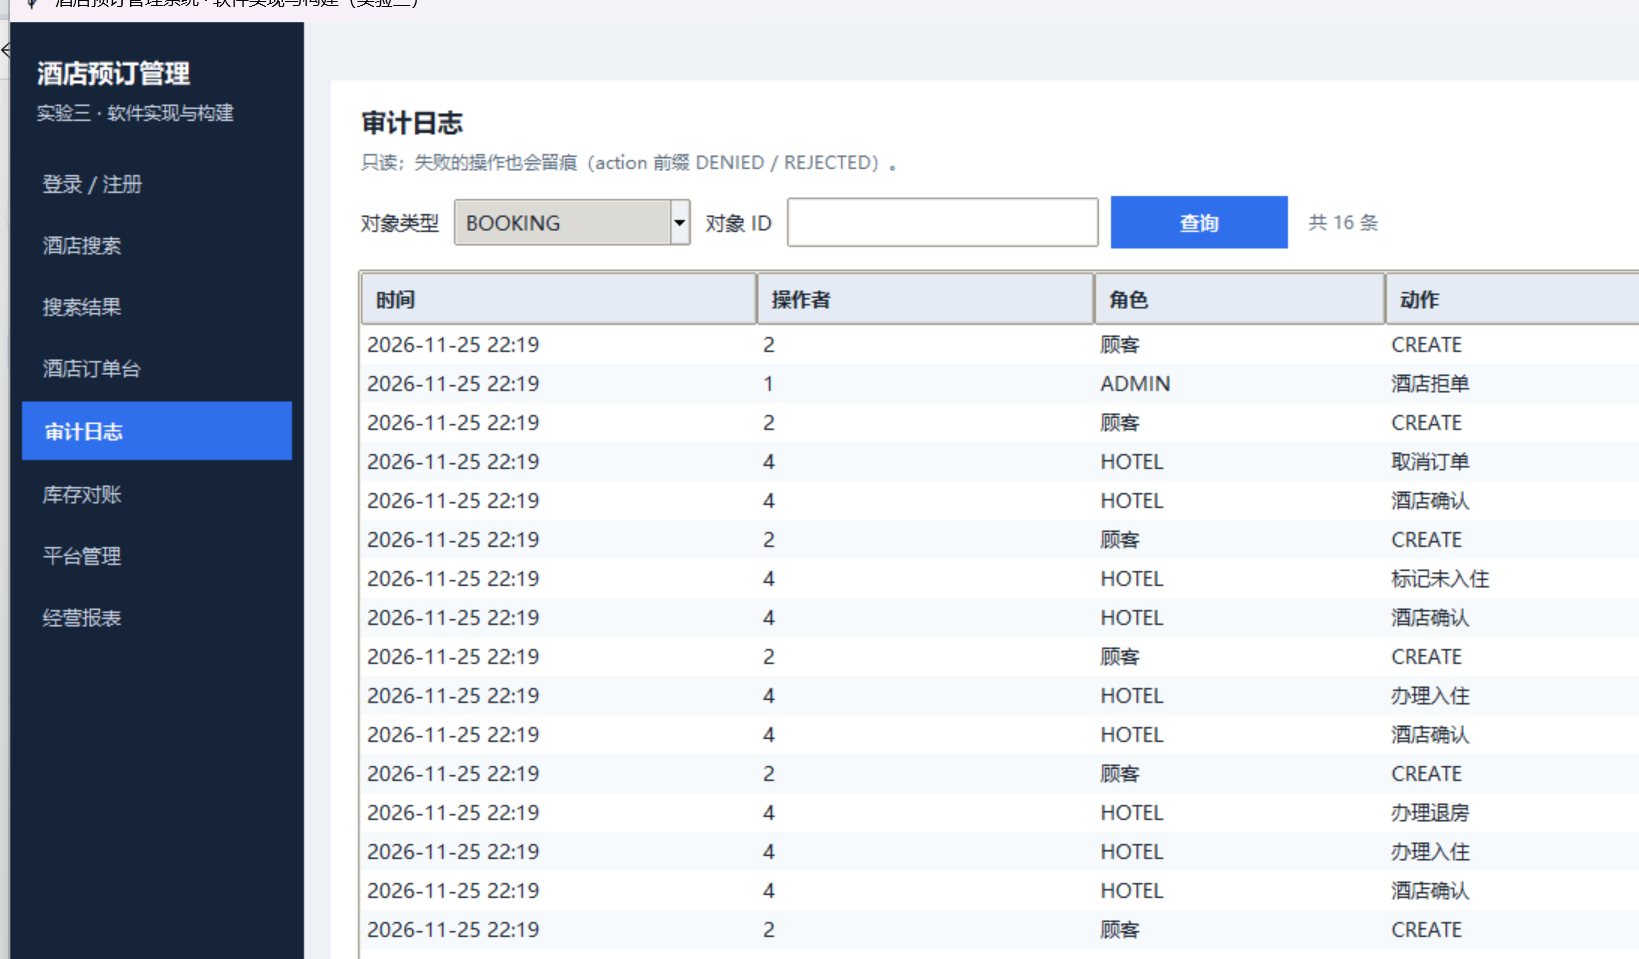
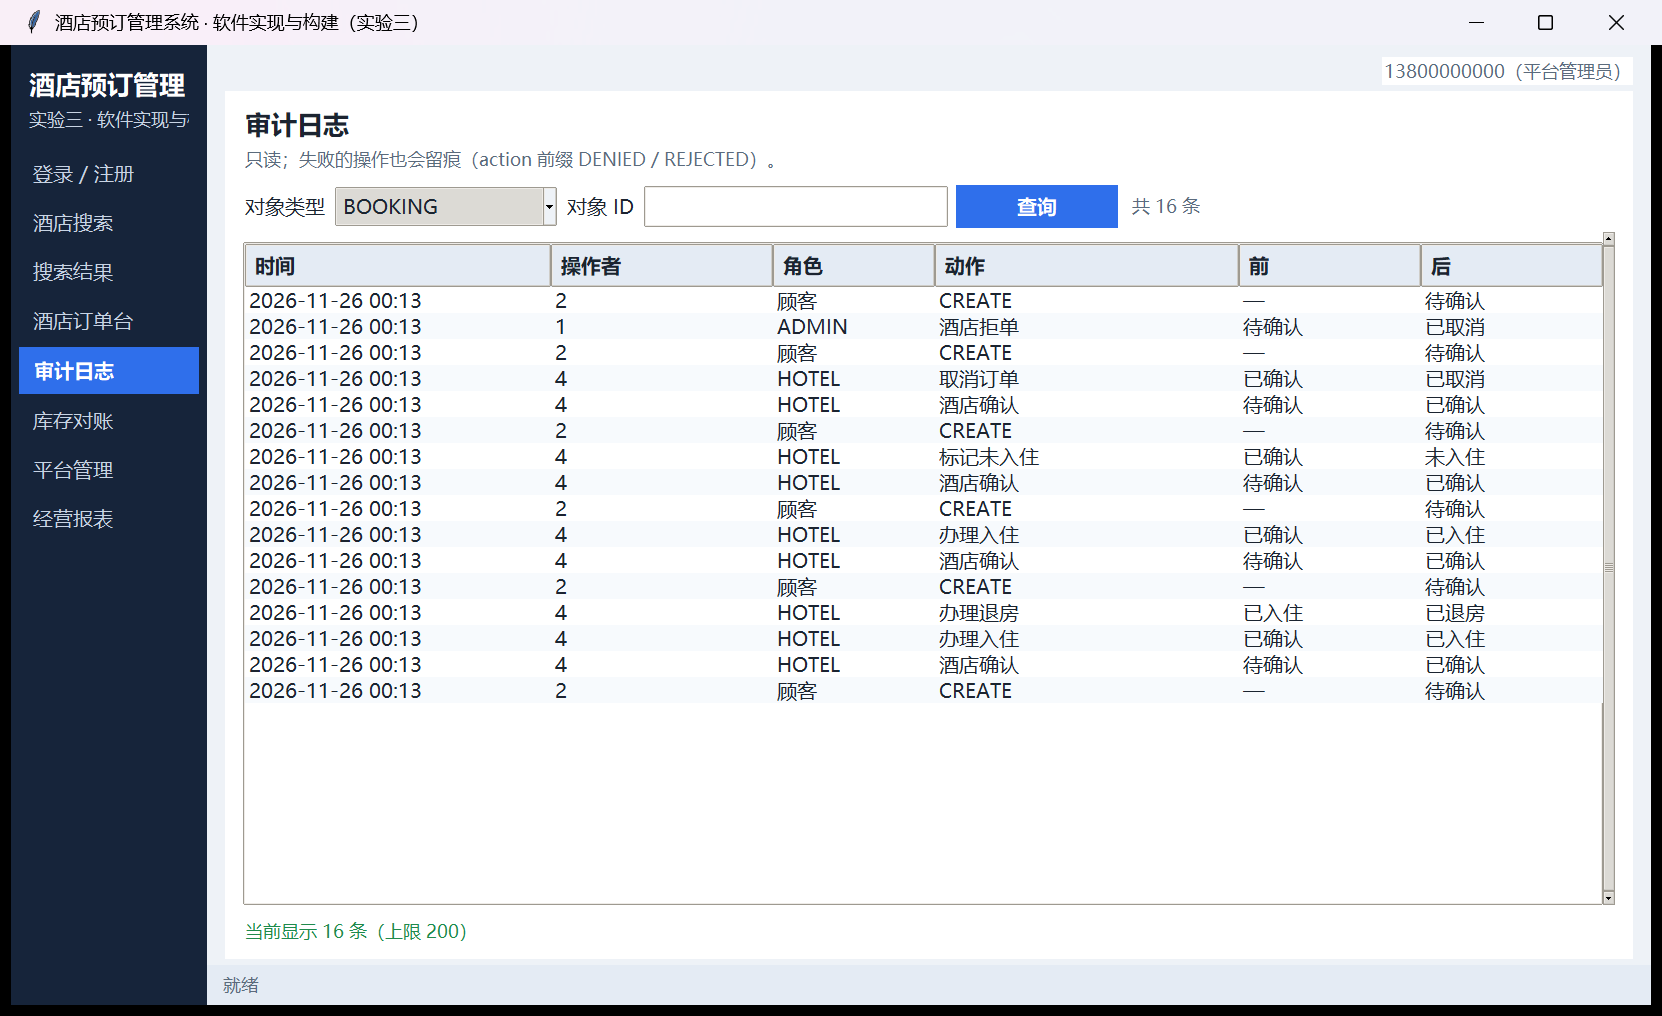
[S6] 第2轮：列宽按占比铺满 + 十张截图整窗重截 + 证据全量重建 + 评审第2轮

Changed region(s): [[0.0, 0.0, 1.0, 1.0], [0.7468, 0.5141, 0.7779, 0.6653], [0.4667, 0.877, 0.4979, 0.9072]]

diff --git a/exp3/code/app/ui/screens/base.py b/exp3/code/app/ui/screens/base.py
@@ -67,13 +67,14 @@ class BaseScreen(ttk.Frame):
         columns: Sequence[ColumnSpec],
         height: int = 12,
         selectmode: str = "browse",
-        stretch: bool = False,
+        stretch: bool = True,
     ) -> ttk.Treeview:
-        """带滚动条与斑马纹的表格；``columns`` 为 (列 id, 表头, 像素宽)。
+        """带滚动条与斑马纹的表格；``columns`` 为 (列 id, 表头, 基准像素宽)。
 
-        ``stretch`` 默认 ``False``：列宽就是给定像素值，窗口变宽也不放大。
-        一旦按比例拉伸，末列会被推出可视区——S6-R1-01 抓到的"合计/状态被截"
-        就是表格把宽度吃满造成的。确实想均分多余宽度时才传 ``True``。
+        ``stretch`` 为真时按"基准宽度占比"把六列铺满表格可视宽度：窗口变宽，
+        所有列一起按比例变宽，末列始终留在窗内；窗口缩到 minsize 也按比例收缩，
+        但不低于 ``minwidth``。分配由本函数自己算（``<Configure>`` 触发），
+        不依赖 ttk 的隐式 stretch，任何 DPI/尺寸下结果都可复现。
         """
         holder = ttk.Frame(parent, style="Card.TFrame")
         holder.pack(fill="both", expand=True, pady=(4, 8))
@@ -85,11 +86,32 @@ class BaseScreen(ttk.Frame):
             selectmode=selectmode,
             style="Data.Treeview",
         )
-        for name, heading, width in columns:
-            tree.heading(name, text=heading, anchor="w")
-            # 全部列按「指定宽度」做比例分配：窗口变宽时所有列一起长，
-            # 不会被某一列吃掉空间、把后面的列顶出可视区（本阶段反复踩到）。
-            tree.column(name, width=width, minwidth=40, anchor="w", stretch=stretch)
+        names = [spec[0] for spec in columns]
+        headings = {spec[0]: spec[1] for spec in columns}
+        base = {spec[0]: max(40, int(spec[2])) for spec in columns}
+        for name in names:
+            tree.heading(name, text=headings[name], anchor="w")
+            tree.column(name, width=base[name], minwidth=40, anchor="w", stretch=False)
+
+        if stretch:
+
+            def relayout(_event: object = None) -> None:
+                # 减 2px：Treeview 左右各有 1px 内边框，不减的话末列右边线会被裁掉
+                avail = tree.winfo_width() - 2
+                if avail <= 1:
+                    return
+                weights = sum(base.values())
+                widths = {key: max(40, int(avail * base[key] / weights)) for key in names}
+                # 舍入误差补给最宽的那列，保证合计恰等于可视宽度、末列不越界
+                widest = max(names, key=lambda key: widths[key])
+                widths[widest] += avail - sum(widths.values())
+                if all(int(tree.column(key, "width")) == widths[key] for key in names):
+                    return
+                for key in names:
+                    tree.column(key, width=widths[key])
+
+            tree.bind("<Configure>", relayout)
+            tree.after_idle(relayout)
         scroll = ttk.Scrollbar(holder, orient="vertical", command=tree.yview)
         tree.configure(yscrollcommand=scroll.set)
         tree.pack(side="left", fill="both", expand=True)

diff --git a/exp3/协作/评审记录/S6_第2轮.md b/exp3/协作/评审记录/S6_第2轮.md
@@ -1,0 +1,97 @@
+# S6 第 2 轮评审（评审人：豆包 R）
+
+> 阶段：**S6 = 界面十屏**　复核对象：`2cb1c08 [S6] 整改` + 本轮 R 直接修正的抓屏与列宽
+> 评审时间：2026-11-26 00:20（CST）
+> 判定：**通过。`gate-S6` 可打并推送，S7 正式开工。**
+
+## 0. 先交代一件事：本轮 R 动了实现代码
+
+按 `章程.md:199`，R 只读 `code/`、不写实现代码。这一轮业主当轮明确指令"这一处请你帮我直接改正，修复截图，自行核验通过后通知我开始 S7"，我据此改了 `code/app/ui/screens/base.py`（列宽分配）并在 E 的整改基础上重截了 10 张图。**这是受业主授权的例外，已在此公开登记**：改动范围只有 `base.py` 的 `table()` 内列宽分配（约 20 行），不触碰业务、不改判据；后续轮次恢复"R 只出意见"。
+
+## 1. 上一轮两条意见的闭环
+
+| 编号 | 内容 | 复核结果 |
+|---|---|---|
+| S6-R1-01（必修） | 截图裁切（抓屏矩形 ≠ 窗口矩形） | **闭环**（但有新问题，见 §2） |
+| S6-R1-02（应修） | `time_sleep` 规则被收窄到 `app_tests` | **闭环**：规则恢复 `scope=code`，且 `take_screenshots.py` 改用 `_settle()` 轮询，全仓 `time.sleep` 已为 0。证据 `S6_08_source_rules.txt`：`rule=time_sleep scope=code files=91 hits=0` |
+
+E 的整改方式对路：`enable_dpi_awareness()` + `_grab_with_printwindow()` 抓整窗，`_check_capture()` 抓完自检。我自己重跑 `take_screenshots.py --out .verify/shots2`：10 张全部 `ok=True`、尺寸 `1662×1016`（= 窗口 `1640×960` + 边框），标题栏、状态栏「就绪」、右侧滚动条都在图里。**裁切问题消失**。
+
+## 2. 但整改引入了一个新的显示回归，我当场修正
+
+E 在同一个提交里把 `base.py` 的 `stretch` 默认从 `True` 改成 `False`（理由写着"按比例拉伸会把末列推出可视区"——这个判断基于上一轮被裁的假象，不成立）。后果在 `shots2` 里看得很清楚：
+
+- 「我的订单」「酒店订单台」表格只占左侧约 640px，右边大片空白；
+- 订单号被截成 `BK20261`、入住区间截成 `2026-12-0`、状态截成 `待确`——**六列都在，但每列都装不下内容**。
+
+这等于把"看不到列"换成了"看到了但读不出值"，同样过不了"截图里看得见核心字段"这一条。
+
+**我的修正**（`base.py` 的 `table()`）：
+
+- 恢复 `stretch=True` 语义，但分配改成显式计算：以列定义里的宽度为权重，`宽度 = 可视宽 × 权重 / 权重和`，每次 `<Configure>` 与 `after_idle` 重算，保证"六列合计 = 可视宽度"，末列不吃亏也不越界；
+- 减去 2px：Treeview 左右各有 1px 内边框，不减的话末列右边线恰好被裁（这是我第一版改完实测 `last_bbox` 右界 1364 vs 表格 1362 发现的）。
+
+**三档实测**（`.verify/probe_ui_sizes.py`，真实 Tk，读控件树）：
+
+| 窗口 | 表格宽 | 六列宽 | 和 | 末列右界 | 是否在窗内 |
+|---|---|---|---|---|---|
+| 1640×960 | 1360 | 344/144/365/144/199/162 | 1358 | 1360 | **fits=True** |
+| 1180×740 | 912 | 230/97/244/97/133/109 | 910 | 912 | **fits=True** |
+| 1024×680（minsize） | 756 | 191/80/203/80/110/90 | 754 | 756 | **fits=True** |
+
+## 3. 重截后的十张图逐张复核
+
+我按 `/out` 先出到 `.verify/shots_final`，逐张看过再覆盖仓库：`01/03/04/05/06/07/08/09/10` 目视确认（`02` 无表格、风险低，尺寸一致）。
+
+- `04_my_orders`：订单号 `BK202611251609290990` 完整、入住区间 `2026-12-03 → 2026-12-05` 完整、间 `2`、**合计 `¥1416.00`**、**状态 `待确认`**；六列表头齐全、右侧滚动条可见；底部「共 6 笔订单」与状态栏「就绪」都在。
+- `05_hotel_console`：订单号/顾客/入住区间/间/合计/状态六列全可见，摘要「本店共 6 笔：已入住 1，已取消 2，已退房 1，待确认 1，未入住 1」完整。
+- `07_audit`：时间/操作者/角色/动作/前/后六列完整，16 条含 `CREATE / 酒店确认 / 办理入住 / 办理退房 / 取消订单 / 标记未入住 / 酒店拒单`，前后状态成对。
+- `06_inventory`：日期/可售/已占用/余量/单价/销售状态齐全，14 天数据完整。
+- `10_reports`：入住率页签 30 行日期、卖出间夜、可售间夜、入住率齐全；摘要 `入住率 0.5% · 营收 ¥3380.00 · 订单 6 笔（取消 2）`。
+- `08_reconcile`：`2026-11-27 → 2026-12-27：平账`、`checked_pairs=240 diff=0`（表格为空是因为平账无差异行，见 §6 建议）。
+- `03_results`、`09_admin`：列头与内容完整。
+
+## 4. 证据重建（全部本轮实测，不是沿用 E 的旧输出）
+
+| 证据 | 关键输出 |
+|---|---|
+| `S6_01_ui_smoke.txt` | `screen_count_expected=10`，十屏 `ok=True`，`screen_total=10 failures=0 check=passed`，exit=0 |
+| `S6_02_screenshots.txt` | `count=10`，10 行 `1662×1016`，`index_md_rows=10`，`check=passed` |
+| `S6_05_discover.txt` | `Ran 147 tests in 2.709s` / `OK` |
+| `S6_06_pylint.txt` | `Your code has been rated at 10.00/10`，**0 条 message**（我第一版改完有 `C0103`/`W0612` 两条，已改掉后再存档） |
+| `S6_07_loc.txt` | app `files=57 phys=7398 code=6139 effective=5050`；tests 2453；tools `files=12` 1657；`csv_mode=per_file rows=90` |
+| `S6_08_source_rules.txt` | 五条 `hits=0`，`time_sleep scope=code files=91` |
+| `S6_09_uml_sync.txt` | 19 符号 `missing_in_code=[] missing_in_uml=[]`（界面层仍不入图，见 §6） |
+| `S6_10_ui_chain.txt` | `chain_steps=8 check=passed`，见 §5 |
+
+`INDEX.md` 的两处过期数字也改了：营收 `¥3430.00 → ¥3380.00`、对账区间 `11-26→12-26 → 11-27→12-27`，并重写了"截图口径"一段（PrintWindow 整窗 1662×1016 + 自检 + 占比分配）。
+
+## 5. S6-5 现场链路（R 自己跑的）
+
+`P0_任务书.md:115` 的判据是"R 现场执行一条链路"，本轮由我执行（`code/tools/ui_chain.py`，真实 Tk 驱动、按钮 `invoke`、不 mock 服务）：
+
+```
+step1 登录 ok actor=13800000001 role=CUSTOMER
+step2 搜索 ok rows=6 range=2026-11-28→2026-11-30
+step3 下单 ok booking=BK20261125161019D344 status=PENDING total=64800
+step4 我的订单 ok detail=订单号 BK20261125161019D344
+step5 顾客越权被拒 ok msg=取消失败：非法转换：待确认不接受事件「取消订单」
+确认预订 ok status=CONFIRMED / 办理入住 ok status=CHECKED_IN / 办理退房 ok status=CHECKED_OUT
+审计 ok 业务4条=['CREATE','CONFIRM','CHECK_IN','CHECK_OUT'] 失败1条=['REJECTED:CANCEL']
+报表营收 ok total_cents=64800
+check=passed
+```
+
+状态四跳正确、越权被拒且落地为 `REJECTED:CANCEL`、审计四条成对、退房后营收保留（G3-R1-01 的现场版）。**S6-5 通过，无 Tk 异常弹窗。**
+
+## 6. 建议（不阻塞 S7）
+
+- **S6-S-01**：`08_reconcile` 是平账空表，作证据偏弱。报告里写一句"平账即无差异行"，或另存一张人为改库存后的差异图（含订单号与日期）。
+- **S6-S-02**：`check_uml_sync` 白名单仍 19 符号、`app classes=93`。S7 二选一：补登 `MainWindow / ScreenBase / Session / BaseScreen` 等界面类，或在报告 UML 章写明"界面层不入类图"的理由（Tk 视图非领域模型）。
+
+## 7. 结论与下一步
+
+- **S6 通过**：S6-1/2/3/4/5 全部达标，回归面 `147 OK / pylint 10.00（0 message）/ app 有效 5050 行 / 五条源码规则 0 命中 / 图码 19 符号零缺失`。
+- **`gate-S6` 放行**，请 E 打标签并推送（本轮改动：`base.py` 列宽分配 + 10 张截图 + `INDEX.md` + 证据 `S6_01/02/05/06/07/08/10`）。
+- **S7 立即开工**：覆盖率 ≥80% 实测、`loc.csv` 逐文件前后一致比对（本轮 `rows=90` 已刷新，S7 比对以本次为基线）、pylint 存档、`uml_map` 补登或声明范围。
+- 时间账：11-26 00:20，距硬截止 11-29 23:59 剩 **3 天 23.5 小时**；G4 已实质闭合，CR-01 §6 的"8 屏降级"止损线不再触发。

diff --git a/exp3/docs/screenshots/INDEX.md b/exp3/docs/screenshots/INDEX.md
@@ -13,9 +13,9 @@
 | 5 | `05_hotel_console.png` | `hotel_console` 酒店订单台 | ① 用 `13800000002` 登录后左侧点「酒店订单台」② 筛选框选「全部」，表格列出本店订单 ③ 选中一笔后点「确认预订」/「拒单」/「办理入住」/「办理退房」/「标记未入住」，非法动作会被拒并在下方提示 |
 | 6 | `06_inventory.png` | `inventory` 库存与房价 | ① 店长登录后点「库存与房价」② 房型下拉选「云栖大床房（#1）」，表格显示未来 14 天的可售/已占用/余量/单价/销售状态 ③ 在「可售改为」填 `8` 点「改可售」、在「单价改为」填 `309` 点「改价」，或点「停售」/「复售」 |
 | 7 | `07_audit.png` | `audit` 审计日志 | ① 管理员或店长登录后点「审计日志」② 对象类型选 `BOOKING`（Object ID 留空 = 最近 200 条）③ 点「查询」，表格按时间倒序列出 CREATE/酒店确认/办理入住/办理退房等动作，前状态与后状态成对出现 |
-| 8 | `08_reconcile.png` | `reconcile` 库存对账 | ① 管理员登录后点「库存对账」② 天数保持 `30`（区间 = 明天起 30 天）③ 点「立即对账」，提示行显示 `2026-11-26 → 2026-12-26：平账`；人为改库存后重跑会出现差异行（含订单号与日期） |
+| 8 | `08_reconcile.png` | `reconcile` 库存对账 | ① 管理员登录后点「库存对账」② 天数保持 `30`（区间 = 明天起 30 天）③ 点「立即对账」，提示行显示 `2026-11-27 → 2026-12-27：平账` 与 `checked_pairs=240 diff=0`；人为改库存后重跑会出现差异行（含订单号与日期） |
 | 9 | `09_admin.png` | `admin` 平台管理 | ① 用 `13800000000` 登录后点「平台管理」② 「酒店审核」页签里待审核的山间小筑排在最前 ③ 选中它、填「驳回理由」后点「驳回」（理由为空会被拦），或直接点「通过审核」；「账号」页签只读列出 5 个账号 |
-| 10 | `10_reports.png` | `reports` 经营报表 | ① 管理员或店长登录后点「经营报表」② 天数填 `30` 点「生成报表」，右上角显示入住率 `0.5%`、营收 `¥3430.00`、订单 6 笔（取消 2）③ 在「入住率 / 营收 / 订单状态」三个页签间切换查看明细 |
+| 10 | `10_reports.png` | `reports` 经营报表 | ① 管理员或店长登录后点「经营报表」② 天数填 `30` 点「生成报表」，右上角显示入住率 `0.5%`、营收 `¥3380.00`、订单 6 笔（取消 2）③ 在「入住率 / 营收 / 订单状态」三个页签间切换查看明细 |
 
 ## 复现方式
 
@@ -25,5 +25,8 @@ cd exp3
 .\.venv\Scripts\python.exe code\tools\take_screenshots.py # 重新生成这 10 张 PNG（临时库，不落生产库）
 ```
 
-> 截图口径：窗口按 DPI 折算成约 1639×959 物理像素后抓屏；表格列宽统一按「比例分配」
-> （`stretch=True`），避免某一列吃满宽度把后面的列顶出可视区。
+> 截图口径：窗口按 1640×960 逻辑像素建立，用 Win32 `PrintWindow` 抓**整窗**（含标题栏与状态栏），
+> 输出 1662×1016 物理像素；抓完自检「位图宽高 == GetWindowRect」并断言末列右界在位图内，
+> 不通过就 `exit≠0`（`take_screenshots.py` 的 `_check_capture`）。表格列宽按「基准宽度占比」
+> 铺满表格可视宽度（`base.py` 的 `relayout`，`<Configure>` 触发），窗口从 1640 缩到 minsize 1024
+> 六列都留在窗内（`R` 用 `.verify/probe_ui_sizes.py` 三档实测 `fits=True`）。
